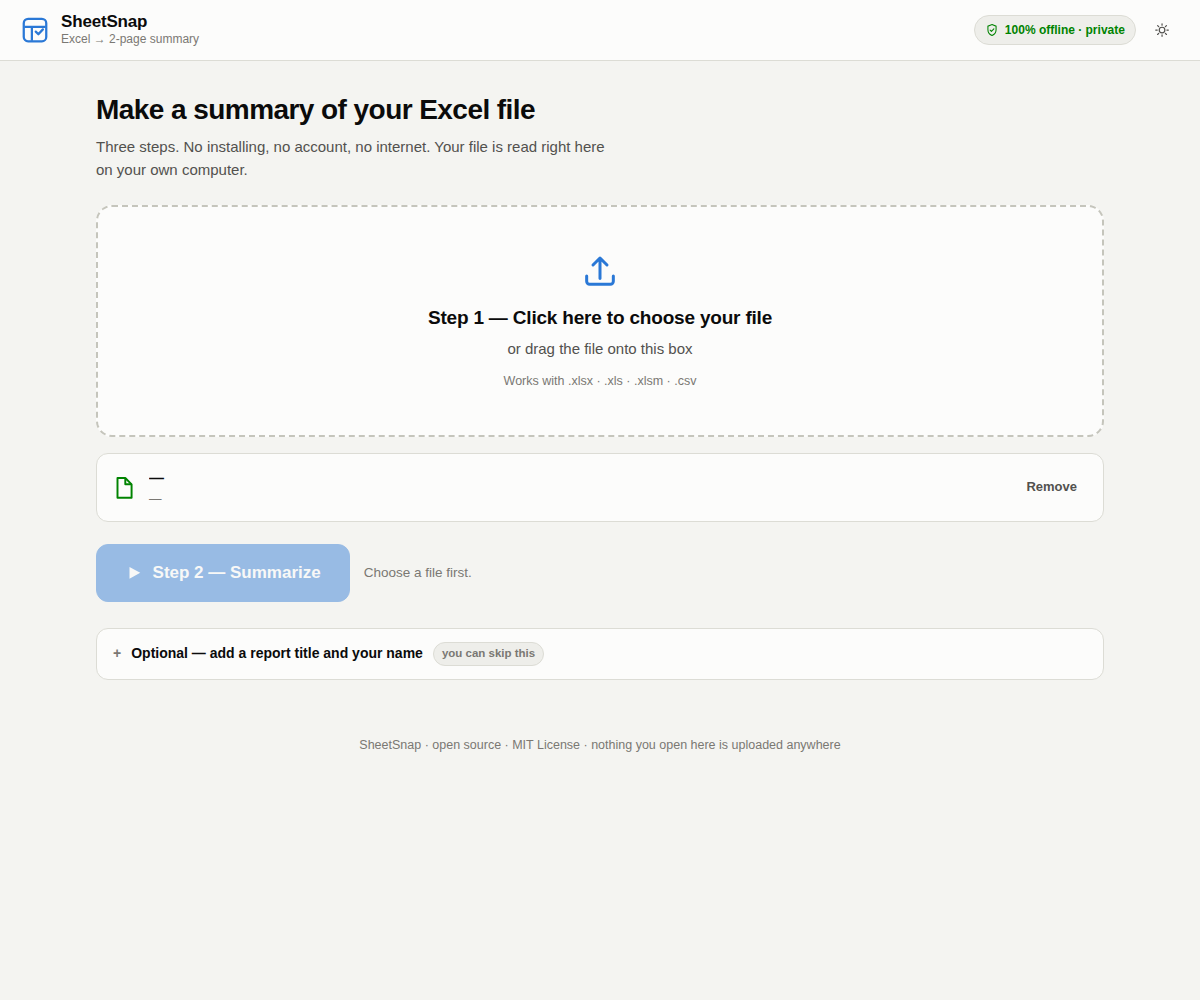
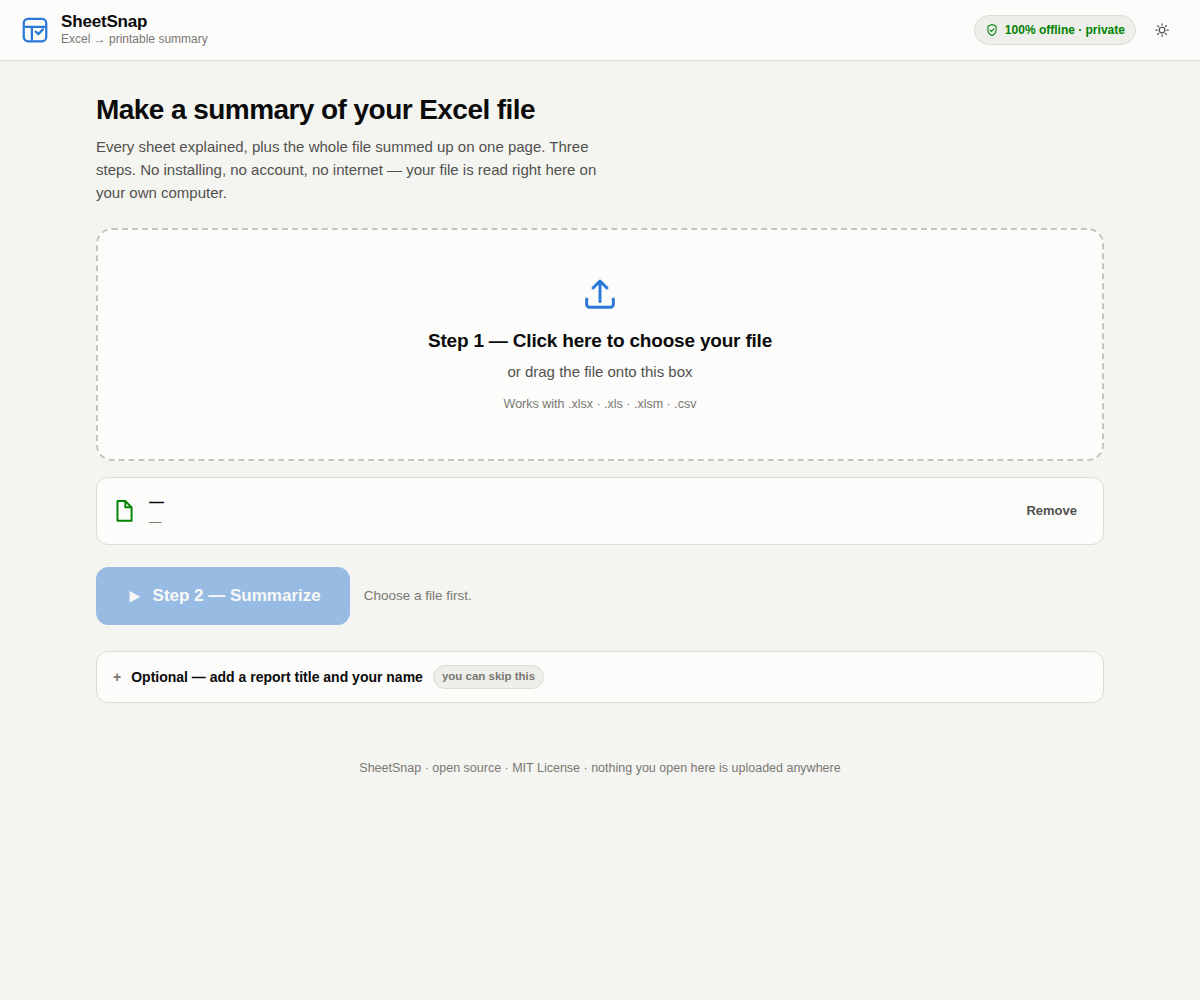
Stop promising a 2-page report; it is 2 parts, 1 of them one page
The tagline said "get a clean 2-page summary". That is not what the tool does.
Part 1 renders one block per sheet, so a twelve-sheet workbook prints a long
part 1. Only part 2 is guaranteed to fit a single A4 page.

The failure mode this creates is the damaging kind: a user with ten sheets
presses Print, gets five pages, and concludes the tool is broken - when the
output was correct and only the promise was wrong. The README already explained
the real behaviour further down, which made the headline a contradiction rather
than a simplification.

Changed everywhere the claim appeared: the README tagline and the two section
headings, the page meta description, the app's brand line, the two in-report
labels, the build banner and the package description. The report's own
introduction now states how many sheets it is about to print, so pressing Print
holds no surprise, and the part 2 label says "one A4 page" on its face.

CLAUDE.md now carries the rule directly: say "two parts", never "two pages", and
treat any wording that promises a two-page printout as a bug.

Verification
- 36 checks became 39. The new ones assert that no text anywhere on screen
  promises a fixed page count, that both halves are labelled as parts, and that
  part 1 names the number of sheets it covers. The existing check that part 2
  still renders on exactly one A4 sheet is unchanged and still passes.
- Both README screenshots regenerated from the corrected output.
[…]

diff --git a/SheetSnap.html b/SheetSnap.html
@@ -4,7 +4,7 @@
 <meta charset="utf-8">
 <meta name="viewport" content="width=device-width, initial-scale=1">
 <title>SheetSnap</title>
-<meta name="description" content="Turn any Excel file into a clean 2-page summary report. Runs offline in your browser.">
+<meta name="description" content="Turn any Excel file into a clean summary: every sheet explained, plus the whole file on one page. Runs offline in your browser.">
 <style>
 /* ---------- design tokens ---------- */
 :root{
@@ -291,7 +291,7 @@ table.t tfoot td{font-weight:700;border-top:1px solid var(--border-strong);borde
     </svg>
     <div>
       <div class="brand-name">SheetSnap</div>
-      <div class="brand-tag">Excel &rarr; 2-page summary</div>
+      <div class="brand-tag">Excel &rarr; printable summary</div>
     </div>
   </div>
   <div class="appbar-right">
@@ -310,7 +310,7 @@ table.t tfoot td{font-weight:700;border-top:1px solid var(--border-strong);borde
   <!-- ============ STEP 1: pick a file ============ -->
   <section id="screenStart" class="no-print">
     <h1 class="h1">Make a summary of your Excel file</h1>
-    <p class="lede">Three steps. No installing, no account, no internet. Your file is read right here on your own computer.</p>
+    <p class="lede">Every sheet explained, plus the whole file summed up on one page. Three steps. No installing, no account, no internet &mdash; your file is read right here on your own computer.</p>
 
     <div id="drop" class="drop" tabindex="0" role="button" aria-label="Choose an Excel file, or drag one here">
       <svg class="drop-ico" viewBox="0 0 24 24" aria-hidden="true">
@@ -377,7 +377,7 @@ table.t tfoot td{font-weight:700;border-top:1px solid var(--border-strong);borde
 
 <script>
 /*!
- * SheetSnap - turn any Excel file into a clean 2-page summary.
+ * SheetSnap - turn any Excel file into a clean, printable summary.
  * This single file is fully self-contained: no server, no install, no network.
  * SheetSnap code: MIT License.
  * Bundled below: SheetJS (xlsx) 0.18.5, Apache License 2.0 - see THIRD-PARTY-NOTICES.md
@@ -978,7 +978,7 @@ var o=[];var l=Array.isArray(e);for(f=n.s.c;f<=n.e.c;++f)s[f]=ya(f);for(var c=n.
     page.id = 'page1';
 
     var head = el('div', 'rhead');
-    head.appendChild(el('span', 'page-label', 'Page 1 of 2 - per-sheet breakdown'));
+    head.appendChild(el('span', 'page-label', 'Part 1 of 2 - per-sheet breakdown'));
     var h2 = el('h2', null, model.meta.title);
     head.appendChild(h2);
     head.appendChild(el('div', 'sub',
@@ -988,7 +988,9 @@ var o=[];var l=Array.isArray(e);for(f=n.s.c;f<=n.e.c;++f)s[f]=ya(f);for(var c=n.
     page.appendChild(head);
 
     page.appendChild(el('p', 'page-note',
-      'One block per sheet. Each block answers What / Who / Where / When / Why / How, then lists the 5 most important numbers with the exact calculation behind each one.'));
+      'One block per sheet. Each block answers What / Who / Where / When / Why / How, then lists the 5 most important numbers with the exact calculation behind each one. ' +
+      'Printed, this part takes as many pages as it needs - ' + model.sheets.length +
+      ' sheet' + (model.sheets.length === 1 ? '' : 's') + ' here. Part 2 is always one page.'));
 
     model.sheets.forEach(function (s, i) {
       var box = el('div', 'sheet');
@@ -1043,7 +1045,7 @@ var o=[];var l=Array.isArray(e);for(f=n.s.c;f<=n.e.c;++f)s[f]=ya(f);for(var c=n.
     page.id = 'page2';
 
     var head = el('div', 'rhead');
-    head.appendChild(el('span', 'page-label', 'Page 2 of 2 - whole-file summary'));
+    head.appendChild(el('span', 'page-label', 'Part 2 of 2 - whole-file summary, one A4 page'));
     head.appendChild(el('h2', null, 'Consolidated Summary'));
     head.appendChild(el('div', 'sub',
       'All ' + c.sheets.length + ' sheet' + (c.sheets.length === 1 ? '' : 's') + ' merged - ' +

diff --git a/src/app.js b/src/app.js
@@ -569,7 +569,7 @@
     page.id = 'page1';
 
     var head = el('div', 'rhead');
-    head.appendChild(el('span', 'page-label', 'Page 1 of 2 - per-sheet breakdown'));
+    head.appendChild(el('span', 'page-label', 'Part 1 of 2 - per-sheet breakdown'));
     var h2 = el('h2', null, model.meta.title);
     head.appendChild(h2);
     head.appendChild(el('div', 'sub',
@@ -579,7 +579,9 @@
     page.appendChild(head);
 
     page.appendChild(el('p', 'page-note',
-      'One block per sheet. Each block answers What / Who / Where / When / Why / How, then lists the 5 most important numbers with the exact calculation behind each one.'));
+      'One block per sheet. Each block answers What / Who / Where / When / Why / How, then lists the 5 most important numbers with the exact calculation behind each one. ' +
+      'Printed, this part takes as many pages as it needs - ' + model.sheets.length +
+      ' sheet' + (model.sheets.length === 1 ? '' : 's') + ' here. Part 2 is always one page.'));
 
     model.sheets.forEach(function (s, i) {
       var box = el('div', 'sheet');
@@ -634,7 +636,7 @@
     page.id = 'page2';
 
     var head = el('div', 'rhead');
-    head.appendChild(el('span', 'page-label', 'Page 2 of 2 - whole-file summary'));
+    head.appendChild(el('span', 'page-label', 'Part 2 of 2 - whole-file summary, one A4 page'));
     head.appendChild(el('h2', null, 'Consolidated Summary'));
     head.appendChild(el('div', 'sub',
       'All ' + c.sheets.length + ' sheet' + (c.sheets.length === 1 ? '' : 's') + ' merged - ' +

diff --git a/src/index.html b/src/index.html
@@ -4,7 +4,7 @@
 <meta charset="utf-8">
 <meta name="viewport" content="width=device-width, initial-scale=1">
 <title>SheetSnap</title>
-<meta name="description" content="Turn any Excel file into a clean 2-page summary report. Runs offline in your browser.">
+<meta name="description" content="Turn any Excel file into a clean summary: every sheet explained, plus the whole file on one page. Runs offline in your browser.">
 <style>/*@CSS*/</style>
 </head>
 <body>
@@ -18,7 +18,7 @@
     </svg>
     <div>
       <div class="brand-name">SheetSnap</div>
-      <div class="brand-tag">Excel &rarr; 2-page summary</div>
+      <div class="brand-tag">Excel &rarr; printable summary</div>
     </div>
   </div>
   <div class="appbar-right">
@@ -37,7 +37,7 @@
   <!-- ============ STEP 1: pick a file ============ -->
   <section id="screenStart" class="no-print">
     <h1 class="h1">Make a summary of your Excel file</h1>
-    <p class="lede">Three steps. No installing, no account, no internet. Your file is read right here on your own computer.</p>
+    <p class="lede">Every sheet explained, plus the whole file summed up on one page. Three steps. No installing, no account, no internet &mdash; your file is read right here on your own computer.</p>
 
     <div id="drop" class="drop" tabindex="0" role="button" aria-label="Choose an Excel file, or drag one here">
       <svg class="drop-ico" viewBox="0 0 24 24" aria-hidden="true">

diff --git a/README.md b/README.md
@@ -2,7 +2,8 @@
 
 # SheetSnap
 
-**Drop in an Excel file. Press one button. Get a clean 2-page summary.**
+**Drop in an Excel file. Press one button.**
+**Get every sheet explained, plus the whole file summed up on one page.**
 
 No installing. No account. No internet. One file, and it works in any folder.
 
@@ -75,9 +76,11 @@ Then you can:
 
 ## What the report looks like
 
-The report is always **2 parts**.
+The report is always **2 parts**. Only part 2 is a single page — part 1 is one
+block per sheet, so a workbook with twelve sheets prints a longer part 1. That is
+deliberate: nothing is squeezed out to hit a page count.
 
-### Page 1 — one block for every sheet
+### Part 1 — one block for every sheet
 
 For each sheet in your file, you get:
 
@@ -101,12 +104,15 @@ For each sheet in your file, you get:
 Nothing is a black box. Every number names its column, its formula, and how many
 rows went into it, so you can check it yourself in Excel in ten seconds.
 
-If your workbook has many sheets, page 1 simply continues onto more printed
-sheets. One block per sheet, always complete.
+**How many printed pages is this?** As many as your workbook needs — one block
+per sheet, never truncated. Three sheets fit comfortably on one or two pages;
+twelve sheets will take more. The report itself tells you how many sheets it
+found, so there are no surprises when you press Print.
 
-### Page 2 — the whole file in one page
+### Part 2 — the whole file in one page
 
-Always **exactly one A4 page**. This is the page you show your boss.
+Always **exactly one A4 page**, whatever part 1 came to. This is the page you
+show your boss.
 
 - **Combined figures** across every sheet. Columns are matched **by name**, so a
   column that only appears in some sheets — one added halfway through the year,

diff --git a/CLAUDE.md b/CLAUDE.md
@@ -1,7 +1,14 @@
 # SheetSnap — working rules
 
-SheetSnap turns a spreadsheet into a 2-page summary report. It ships as a single
-self-contained HTML file so a user downloads one file, opens it, and it works.
+SheetSnap turns a spreadsheet into a summary report in two parts: a per-sheet
+breakdown, then the whole file consolidated onto one A4 page. It ships as a
+single self-contained HTML file so a user downloads one file, opens it, and it
+works.
+
+**Say "two parts", never "two pages".** Part 1 prints as one block per sheet, so
+a twelve-sheet workbook runs to several pages. Only part 2 is guaranteed to fit
+a single A4 page, and the test suite enforces that. Any wording that promises a
+two-page printout is a bug.
 
 ## The product promise
 
